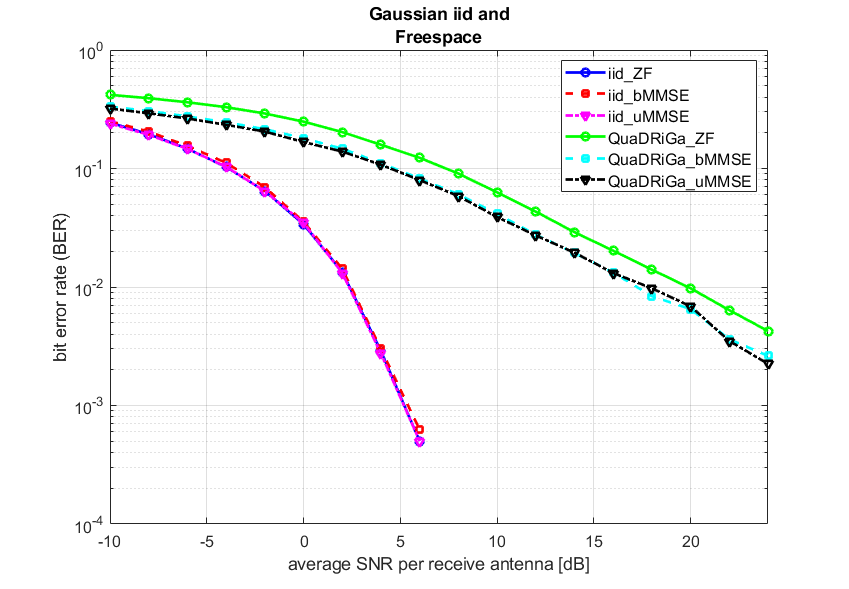
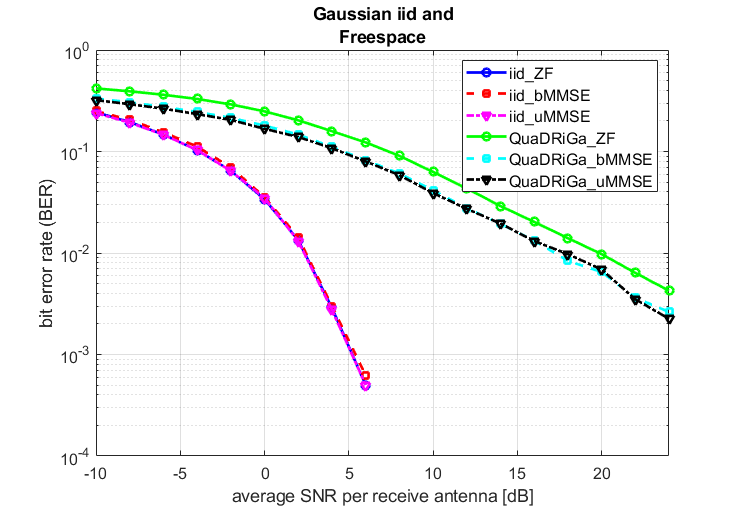
added titles

diff --git a/Quadriga/tutorials/quadriga_and_mimosim.m b/Quadriga/tutorials/quadriga_and_mimosim.m
@@ -12,7 +12,7 @@ par.detector = {'ZF','bMMSE','uMMSE'};
 % Have not been able to successfully run ML
 
 % To be used in channel_sim.m -> where QuaDRiGa generates coefficients
-par.scenario = 'BERLIN_UMa_NLOS'; % 'BERLIN_UMa_NLOS', 'Freespace', 'mmMAGIC_UMi_LOS', 'mmMAGIC_UMi_NLOS'
+par.scenario = 'Freespace'; % 'BERLIN_UMa_NLOS', 'Freespace', 'mmMAGIC_UMi_LOS', 'mmMAGIC_UMi_NLOS'
 par.fc = 28e6; % carrier frequency [Hz]
 par.BW = 10e6; % bandwidth [Hz]
 par.N = 1024; % number of carriers
